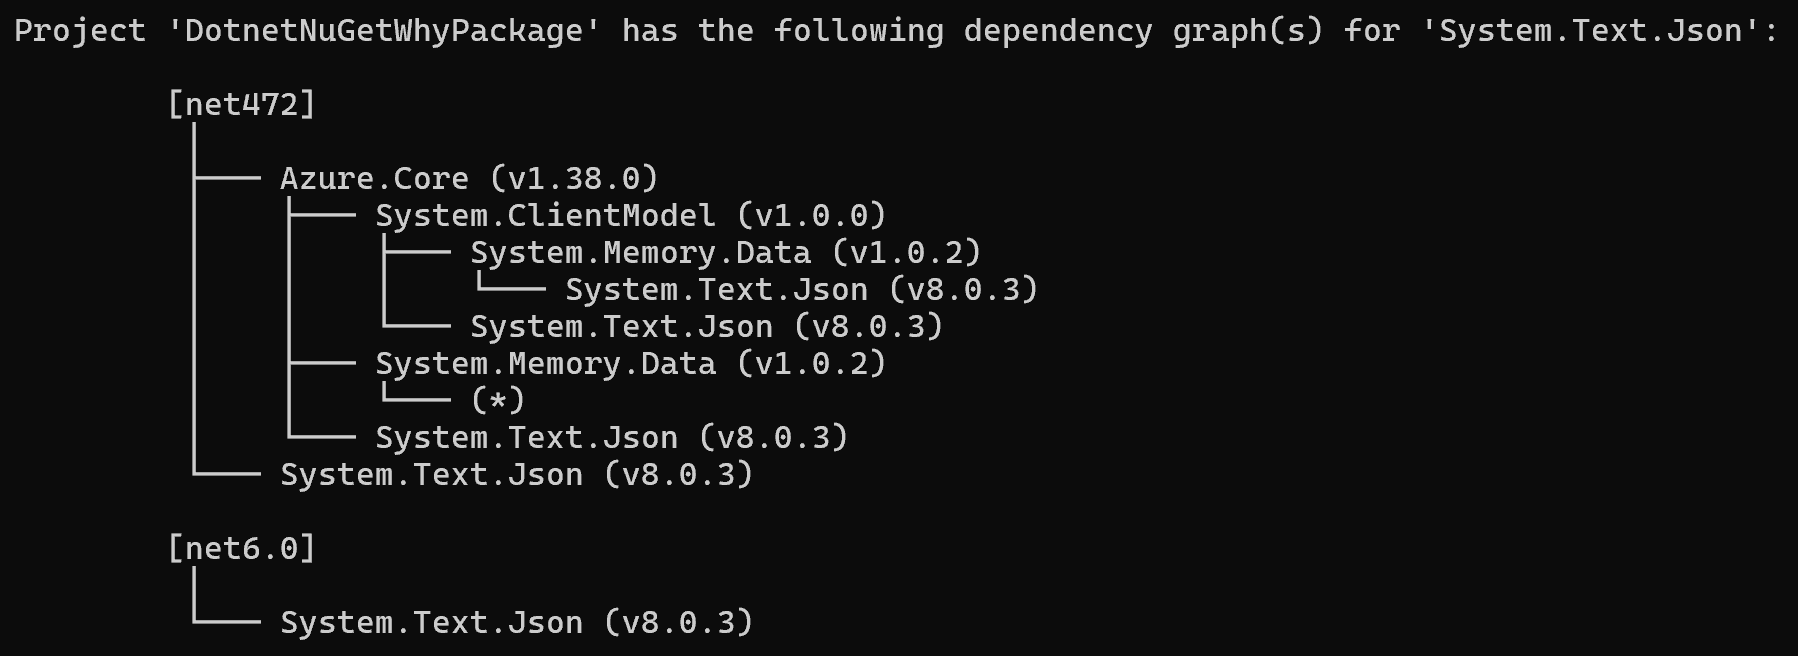
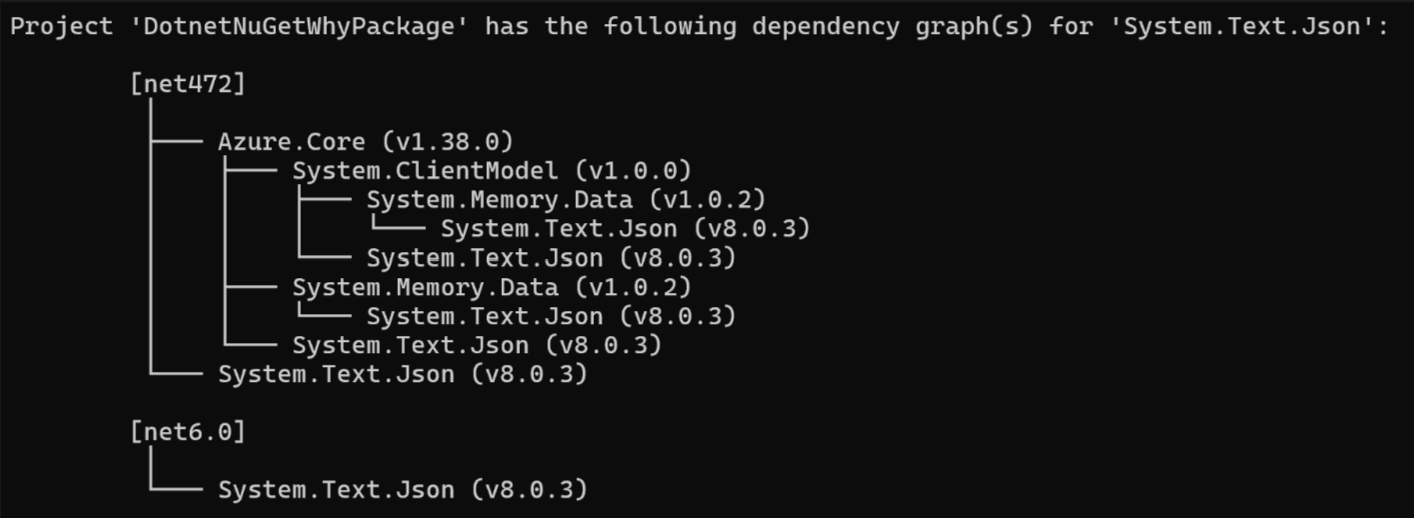
address feedback

Changed region(s): [[0.0934, 0.1236, 0.5912, 0.7413], [0.0, 0.0309, 0.9958, 0.0927], [0.0934, 0.8031, 0.4356, 0.9884]]

diff --git a/accepted/2022/dotnet-nuget-why-proposal.md b/accepted/2022/dotnet-nuget-why-proposal.md
@@ -121,7 +121,9 @@ dotnet nuget why -h|--help
 
 We will show the resolved versions of packages in the graph, rather than the versions requested by the top-level package.
 
-We will also deduplicate graphs in certain cases. If we have already shown a package's dependencies in the graph in another place, we will truncate the graph at that node and show a `(*)` symbol to indicate that the package's dependencies have already been shown. Further, if multiple target frameworks in a project have the same dependency graph, we will show a combined graph for them. (See [examples](#examples))
+We will deduplicate graphs when multiple target frameworks in a project have the same dependency graph, showing a combined graph for them. (See [examples](#examples))
+
+We can also use a different color to highlight the target package in the graph to make it easier for users to locate it.
 
 #### Arguments
 
@@ -189,7 +191,9 @@ The [cargo tree](https://doc.rust-lang.org/cargo/commands/cargo-tree.html) comma
 
 ![Cargo Tree Example](../../meta/resources/DotnetNugetWhy/CargoTreeExample.png)
 
-## Additional improvements
+The Spectre.Console library provides good tooling for printing console output. Especially relevant for us are the [Tree](https://spectreconsole.net/widgets/tree) module, and the [Markup](https://spectreconsole.net/markup) tooling, which can allow us to show the target package in a different color to highlight its location in the graph.
+
+## Additional improvements / Future work
 
 If not specified, the command searches the current directory for one.
 
@@ -206,6 +210,8 @@ Packages acquired through `PackageDownload` are recorded in the `project.assets.
 The NuGet restore operation downloads other packages during dependency resolution which are not part of the final dependency graph that the `dotnet nuget why` command prints out. The absence of a package id and version in the `project.assets.json` file indicates that a package was downloaded during dependency resolution but is not part of the final dependency graph. In the future these other packages can also be included in the dependency graph that the `dotnet nuget why` command prints out.
 
 Use non-zero exit codes for errors such as when the `project.assets.json` file is not present or the package is not found in the `project.assets.json` file.
+
+If we have already shown a package's dependencies in the graph in another place, we can truncate the graph at that node and show a `(*)` symbol to indicate that the package's dependencies have already been shown. We can add a CLI option let users opt-in to this behavior.
 
 ## Appendix
 
